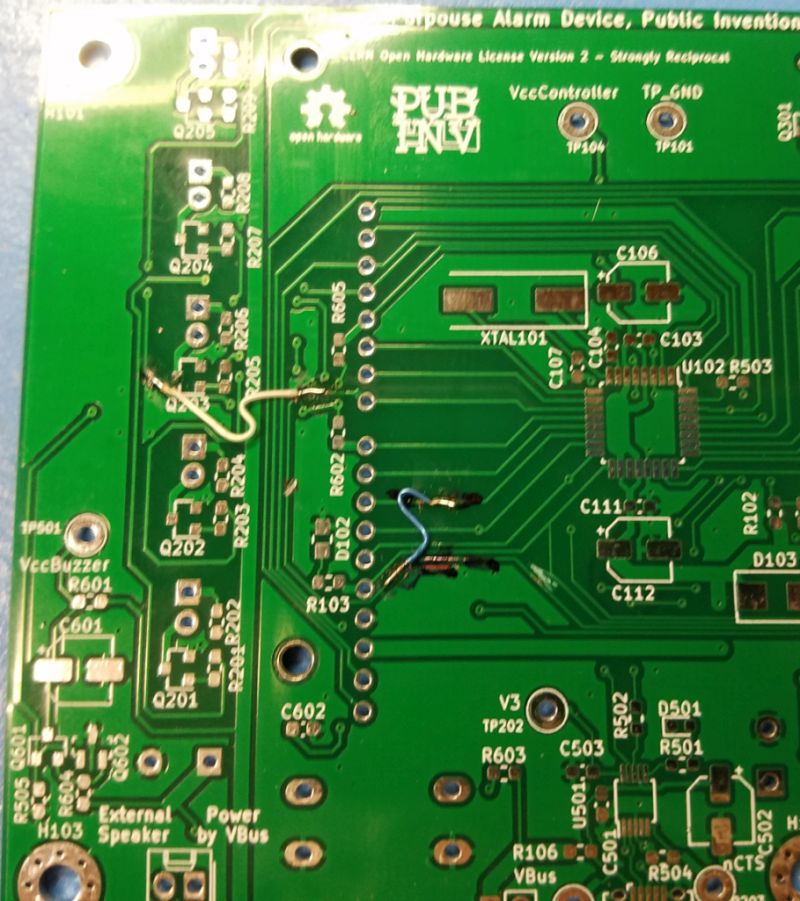
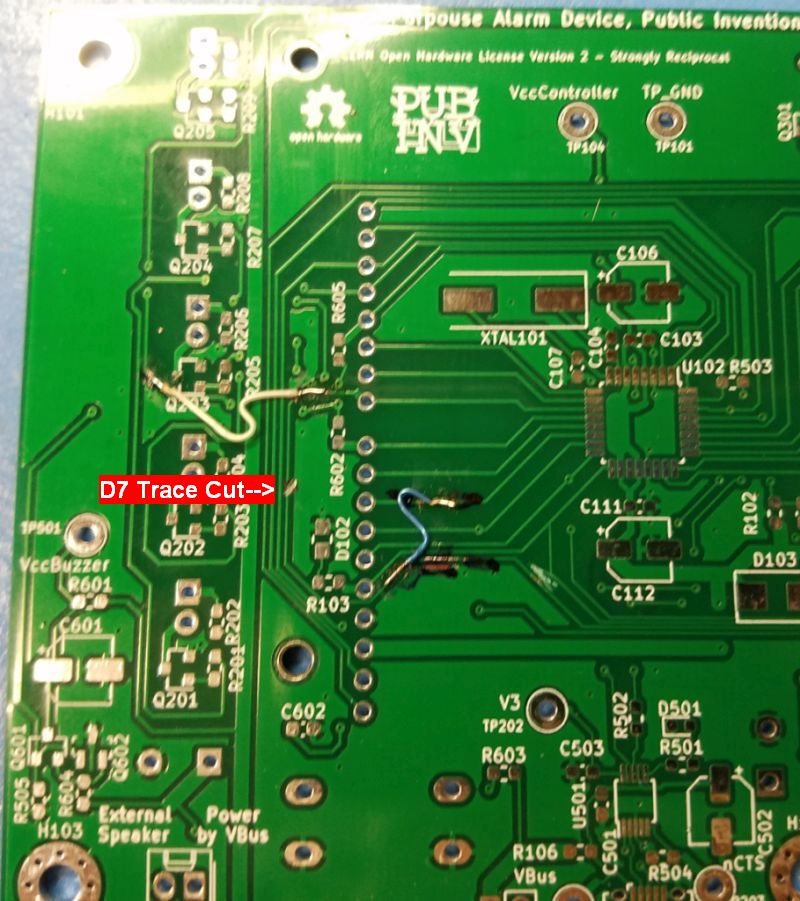
Update for cutting PCB, Soldering U301 on tip toe. Adding UNO headers. Burning Boot Loader image.

Changed region(s): [[0.0938, 0.4972, 0.3438, 0.5594]]

diff --git a/Hardware/Documentation/ManufacturingUnitTestTroubleshooting.md b/Hardware/Documentation/ManufacturingUnitTestTroubleshooting.md
@@ -15,24 +15,35 @@ Assumed that the assembly has the SMT components placed by the board manufacture
 Write serial number on the PCB assembly. _Management of serial numbers is beyound the scope of this document. Each manufacturier must figure something out._
 
 ### Version 1 PCB nCS Rework Instructions
-On front of PCB, mark and cut trace connecting D7 to nCS as shown.  
+The SPI nCS signal must be reworked to connect from D7 to D10 and the LIGHT4 from D10 to D7.  
+Naming convention for board side. The naming follows the KiCAD convention and additionaly the U102 Controller is on the front side. The LCD is on the back side. This document may refer to the Controller side and LCD side as that may be more obvious to the casual user.
+On front Controller side of of PCB, mark and cut trace connecting D7 to nCS as shown.  
 <a href="V1CutD7Trace.gif"><img src="V1CutD7Trace.gif" alt="V1CutD7Trace.gif" width="200"> </a>  
+
 As marked and cut with a small rotary bit.  
+
 <a href="CutLocationD7Trace.jpg"><img src="CutLocationD7Trace.jpg" alt="CutLocationD7Trace.jpg" width="200"> </a>  
 
+On back or LCD side of the PCB, mark and cut trace connecting D10 to LIGHT0 nCS as shown.  
 
-On back of PCB, mark and cut trace connecting D10 to LIGHT0 nCS as shown.  
 <a href="V1CutD10Trace.gif"><img src="V1CutD10Trace.gif" alt="V1CutD10Trace.gif" width="200"> Locate cut.</a>  
 
-As marked and cut with a small rotary bit.
+As marked and cut with a small rotary bit.  
+
 <a href="CutLocationD10Trace.jpg"><img src="CutLocationD10Trace.jpg" alt="CutLocationD10Trace.jpg" width="200"> As cut.</a>  
   
-Scrape solder resist from traces and solder a jumper wire to connect D7 to the trace connecting to R209 (To drive LIGHT4)
-Scrape solder resist from traces and solder a jumper wire to connect D10 to the trace connecting to R404 (To nCS on J401)  
-<a href="ScrapeTraces.jpg"><img src="ScrapeTraces.jpg" alt="ScrapeTraces.jpg" width="200"> Scraped and with wires.</a>
+On the front or Controller side, scrape solder resist from traces and solder a jumper wire to connect D7 to the trace connecting to R209 (To drive LIGHT4)
 
-Apply glue (We used hot melt) to mechanicaly secure the rework wires.
-![GlueWires.jpg](GlueWires.jpg)
+Scrape solder resist from traces and solder a jumper wire to connect D10 to the trace connecting to R404 (To nCS on J401)  
+<a href="ScrapeTraces.jpg"><img src="ScrapeTraces.jpg" alt="ScrapeTraces.jpg" width="200"> Scraped and with wires.</a>  
+
+
+Apply glue (We used hot melt) to mechanicaly secure the rework wires.  
+<a href="GlueWires.jpg"><img src="GlueWires.jpg" alt="GlueWires.jpg" width="200"> Glued rework wires.</a>  
+
+Install the UNO headers at four locations. After soldering, cut the pins so that they will not intefer with the LCD display to be installed soon.  
+<a href="TrimUNOHeaders.jpg"><img src="TrimUNOHeaders.jpg" alt="TrimUNOHeaders.jpg" width="200"> Trimming header pins.</a>  
+
 
 We made an assembly assistant / fixture by using a raw PCB with some long #6 screws and nuts to hold at the PCB mounting points. 
 ![Assembly Fixture View 1](AssemblyFixtureView1.jpg)
@@ -48,21 +59,25 @@ As soldered.
 * The 16 pin header is fit and soldered on to the LCD sub module. Then the pins are placed through the GPAD PCB. Nylon spacers are placed at the four corners of the LCD sub module. Screws with nuts go through both boards and are torqued to **???4???** Inch-Pounds. Solder the LCD header pins into the GPAD PCB.
 TIP: Using the assembly fixture the 16 pin header can be held flush to the LCD module to solder a center pin to start the process.  
 <a href="AssemblyFixtureView2.jpg"><img src="AssemblyFixtureView2.jpg" alt="AssemblyFixtureView2.jpg" width="200"> Assembly Fixture View 2</a>  
-
-
 <a href="HeaderToLCD.jpg"><img src="HeaderToLCD.jpg" alt="HeaderToLCD.jpg" width="200"> View of holding header to LCD.</a>  
 
 * Put Reset button, S101 into PCB from display side.
 * Put Mute button, S401 into PCB from display side.
 * Put Buzzer, BZ601 into PCB from display side.  Bending leads may help retain.
-* Put Contrast pot, RV301 into PCB from display side.  Bending leads may help retain.
+* Put Contrast pot, RV301 into PCB from display side.  Bending leads may help retain.  
+<a href="LCD_SideComponents.jpg"><img src="LCD_SideComponents.jpg" alt="LCD_SideComponents.jpg" width="200"> LCD side components installed.</a>  
 
 **NOTE** on the Version 1 PCB, the cathode flat marking on J105 is backwards. Place the RED LED in so that the flat cathode side is "in board".
 
-Solder the through hole LEDs at locations D201-D205 and D105 with a **TBD** spacer, holding them up from the PCB by TBD inches. 
-<a href="SolderLEDs.jpg"><img src="SolderLEDs.jpg" alt="SolderLEDs.jpg" width="200"> Till an enclosure is finalized, solder LEDs so that the lens is co plainer with the LCD bezel.</a> 
+Solder the through hole LEDs at locations D201-D205 and D105 with a **TBD** spacer, holding them up from the PCB by *TBD* inches.  
 
-**NOTE** on the Version 1 PCB, the foot print for U301 is incorrect. It is too narrow for the part. See photograph of rework method of mounting.
+<a href="LEDsCoPlainer.jpg"><img src="LEDsCoPlainer.jpg" alt="LEDsCoPlainer.jpg" width="200"> Till an enclosure is finalized, solder LEDs so that the lens is co plainer with the LCD bezel.</a> 
+
+**NOTE** on the Version 1 PCB, the foot print for U301 is incorrect. It is too narrow for the part. To mount the part the leads must be formed by bending downard and flattened so that the part stands "tip toe" on the PCB pads.  Apply some flux to the pads and to the leads. With a small tip soldering iron anchor diaginal pins so that the part is well centered and then solder all pins.
+See photograph of rework method of mounting.  
+<a href="U301OnStilts.jpg"><img src="U301OnStilts.jpg" alt="U301OnStilts.jpg" width="200"> U301 on tip toe, pin 16 view. </a>
+<a href="U301OnStiltsB.jpg"><img src="U301OnStiltsB.jpg" alt="U301OnStiltsB.jpg" width="200"> U301 on tip toe, pin one view. </a>
+<a href="U301OnStiltsC.jpg"><img src="U301OnStiltsC.jpg" alt="U301OnStiltsC.jpg" width="200"> U301 on tip toe, end view </a>
 
 
 ### Electrical Tests
